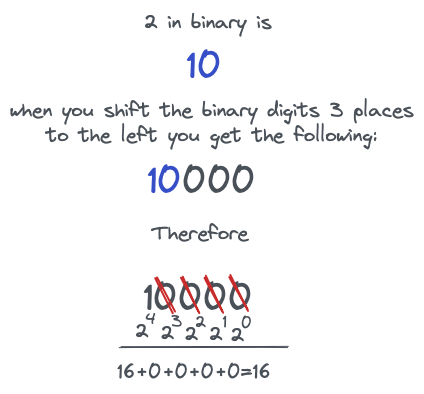
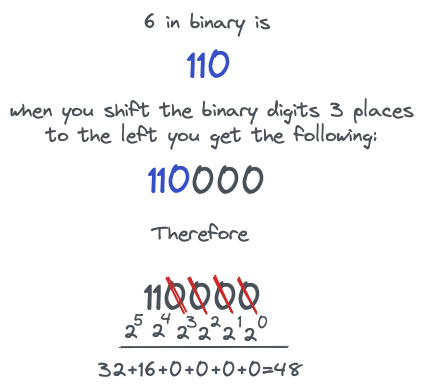
updated notes

diff --git a/random/left-right-shift/index.cpp b/random/left-right-shift/index.cpp
@@ -8,7 +8,7 @@ int main()
 {
   cout << boolalpha;
 
-  bool isTheSame = (2 << 3) == (2 * pow(2, 3));
+  bool isTheSame = (6 << 3) == (6 * pow(2, 3));
 
   cout << isTheSame;
 }

diff --git a/random/left-right-shift/notes.md b/random/left-right-shift/notes.md
@@ -5,8 +5,8 @@ Multiplying operand1 by 2^operand2
 
 Example:
 ```
-int shifted = 2 << 3;
-cout << shifted; // 16
+int shifted = 6 << 3;
+cout << shifted; // 48
 ```
 
 ![Left Shift Image](./assets/left_shift.png)
